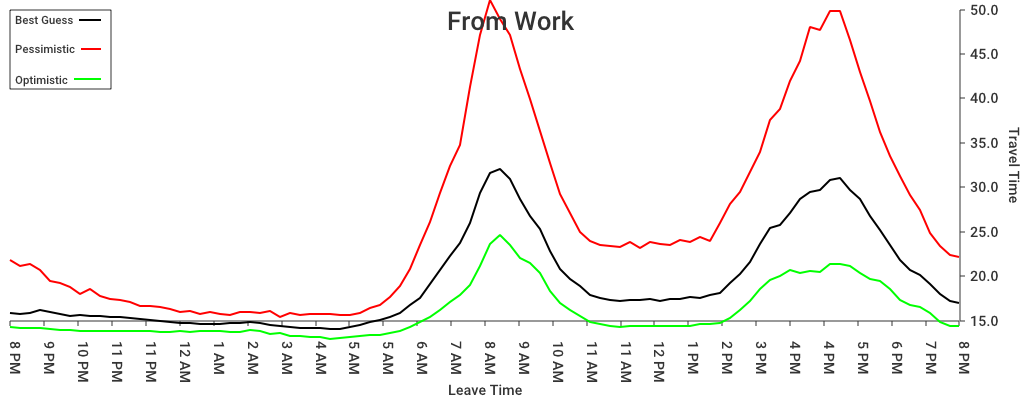
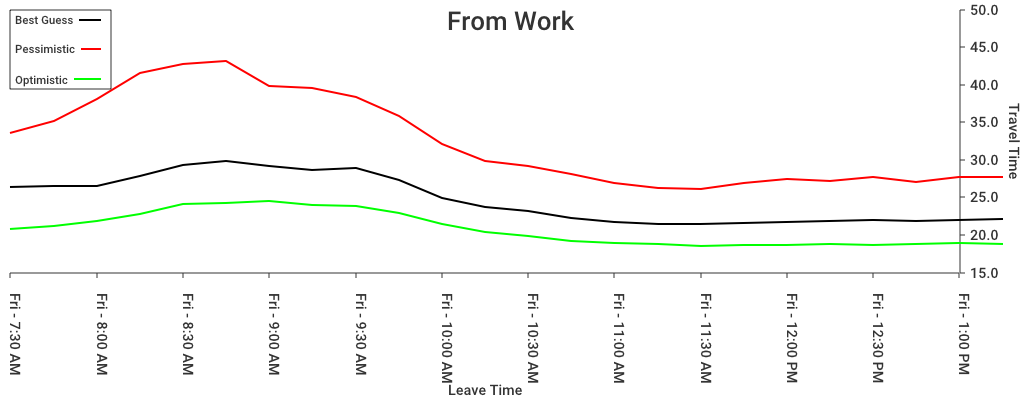
More work

diff --git a/commute-time.go b/commute-time.go
@@ -8,10 +8,8 @@ import (
 	"sync"
 	"time"
 
-	"github.com/wcharczuk/go-chart/drawing"
-
 	"github.com/wcharczuk/go-chart"
-
+	"github.com/wcharczuk/go-chart/drawing"
 	"googlemaps.github.io/maps"
 )
 
@@ -21,10 +19,10 @@ func main() {
 		log.Fatal("Fatal error: %s", err)
 	}
 
-	startTime := time.Now()
-	endTime := startTime.Add(120 * time.Hour)
-	home := "East Palo Alto"
-	work := "Cupertino"
+	startTime := roundToNearestHalfHourInFuture()
+	endTime := startTime.Add(6 * time.Hour)
+	home := "1175 Cypress St, East Palo Alto, CA"
+	work := "Apple Park, Cupertino, CA"
 
 	createAndSaveGraph(c, startTime, endTime, "To Work", "to-work.png", home, work)
 	createAndSaveGraph(c, startTime, endTime, "From Work", "from-work.png", work, home)
@@ -74,7 +72,7 @@ func createAndSaveGraph(c *maps.Client, startTime time.Time, endTime time.Time, 
 		}
 
 		wg.Wait()
-		currentTime = currentTime.Add(15 * time.Minute)
+		currentTime = nextTimeInGraph(currentTime)
 	}
 
 	graph := chart.Chart{
@@ -120,6 +118,7 @@ func createAndSaveGraph(c *maps.Client, startTime time.Time, endTime time.Time, 
 				TextRotationDegrees: 90,
 				Show:                true,
 			},
+			Ticks: generateTicks(timestamps),
 		},
 
 		YAxis: chart.YAxis{
@@ -157,18 +156,4 @@ func createAndSaveGraph(c *maps.Client, startTime time.Time, endTime time.Time, 
 	if err != nil {
 		log.Fatalf("Fatal error: %s", err)
 	}
-}
-
-func formatTime(v interface{}) string {
-	dateFormat := "3 PM"
-	if typed, isTyped := v.(time.Time); isTyped {
-		return typed.Format(dateFormat)
-	}
-	if typed, isTyped := v.(int64); isTyped {
-		return time.Unix(0, typed).Format(dateFormat)
-	}
-	if typed, isTyped := v.(float64); isTyped {
-		return time.Unix(0, int64(typed)).Format(dateFormat)
-	}
-	return ""
 }

diff --git a/timeUtils.go b/timeUtils.go
@@ -1,0 +1,62 @@
+package main
+
+import (
+	"time"
+
+	chart "github.com/wcharczuk/go-chart"
+	"github.com/wcharczuk/go-chart/util"
+)
+
+func formatTime(v interface{}) string {
+	dateFormat := "Mon - 3:04 PM"
+	if typed, isTyped := v.(time.Time); isTyped {
+		return typed.Format(dateFormat)
+	}
+	if typed, isTyped := v.(int64); isTyped {
+		return time.Unix(0, typed).Format(dateFormat)
+	}
+	if typed, isTyped := v.(float64); isTyped {
+		return time.Unix(0, int64(typed)).Format(dateFormat)
+	}
+	return ""
+}
+
+func roundToNearestHalfHourInFuture() time.Time {
+	now := time.Now()
+	var rounded time.Time
+
+	if now.Minute() <= 30 {
+		// Round to 30 in future
+		rounded = time.Date(now.Year(), now.Month(), now.Day(), now.Hour(), 30, 0, 0, now.Location())
+	} else {
+		// Round to 00 in future
+		rounded = time.Date(now.Year(), now.Month(), now.Day(), now.Hour(), 0, 0, 0, now.Location())
+		rounded = rounded.Add(1 * time.Hour)
+	}
+
+	if rounded.Before(now) {
+		rounded.Add(30 * time.Minute)
+	}
+
+	return rounded
+}
+
+func nextTimeInGraph(current time.Time) time.Time {
+	println(current.String())
+	return current.Add(15 * time.Minute)
+}
+
+func generateTicks(times []time.Time) []chart.Tick {
+	ticks := []chart.Tick{}
+
+	for _, time := range times {
+		if time.Minute() == 0 || time.Minute() == 30 {
+			ticks = append(ticks, chart.Tick{
+				Value: util.Time.ToFloat64(time),
+				Label: formatTime(time),
+			})
+		}
+	}
+
+	return ticks
+}
